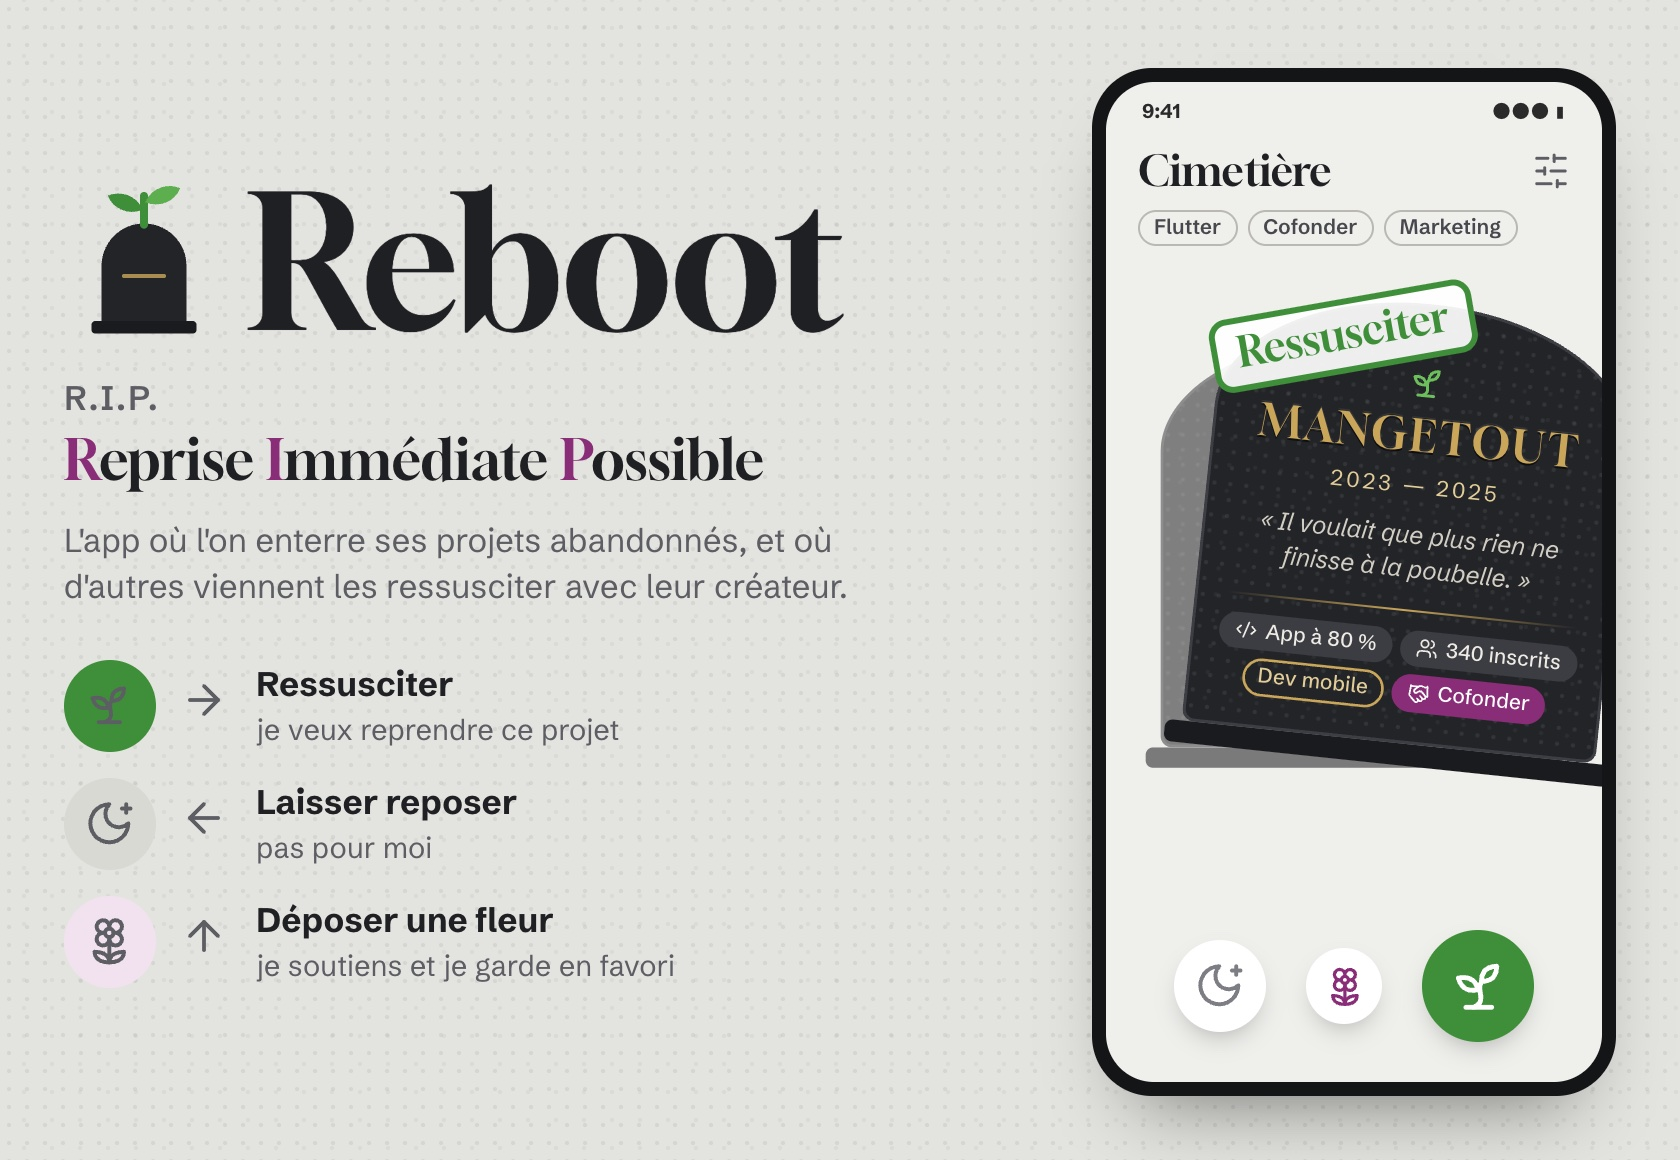
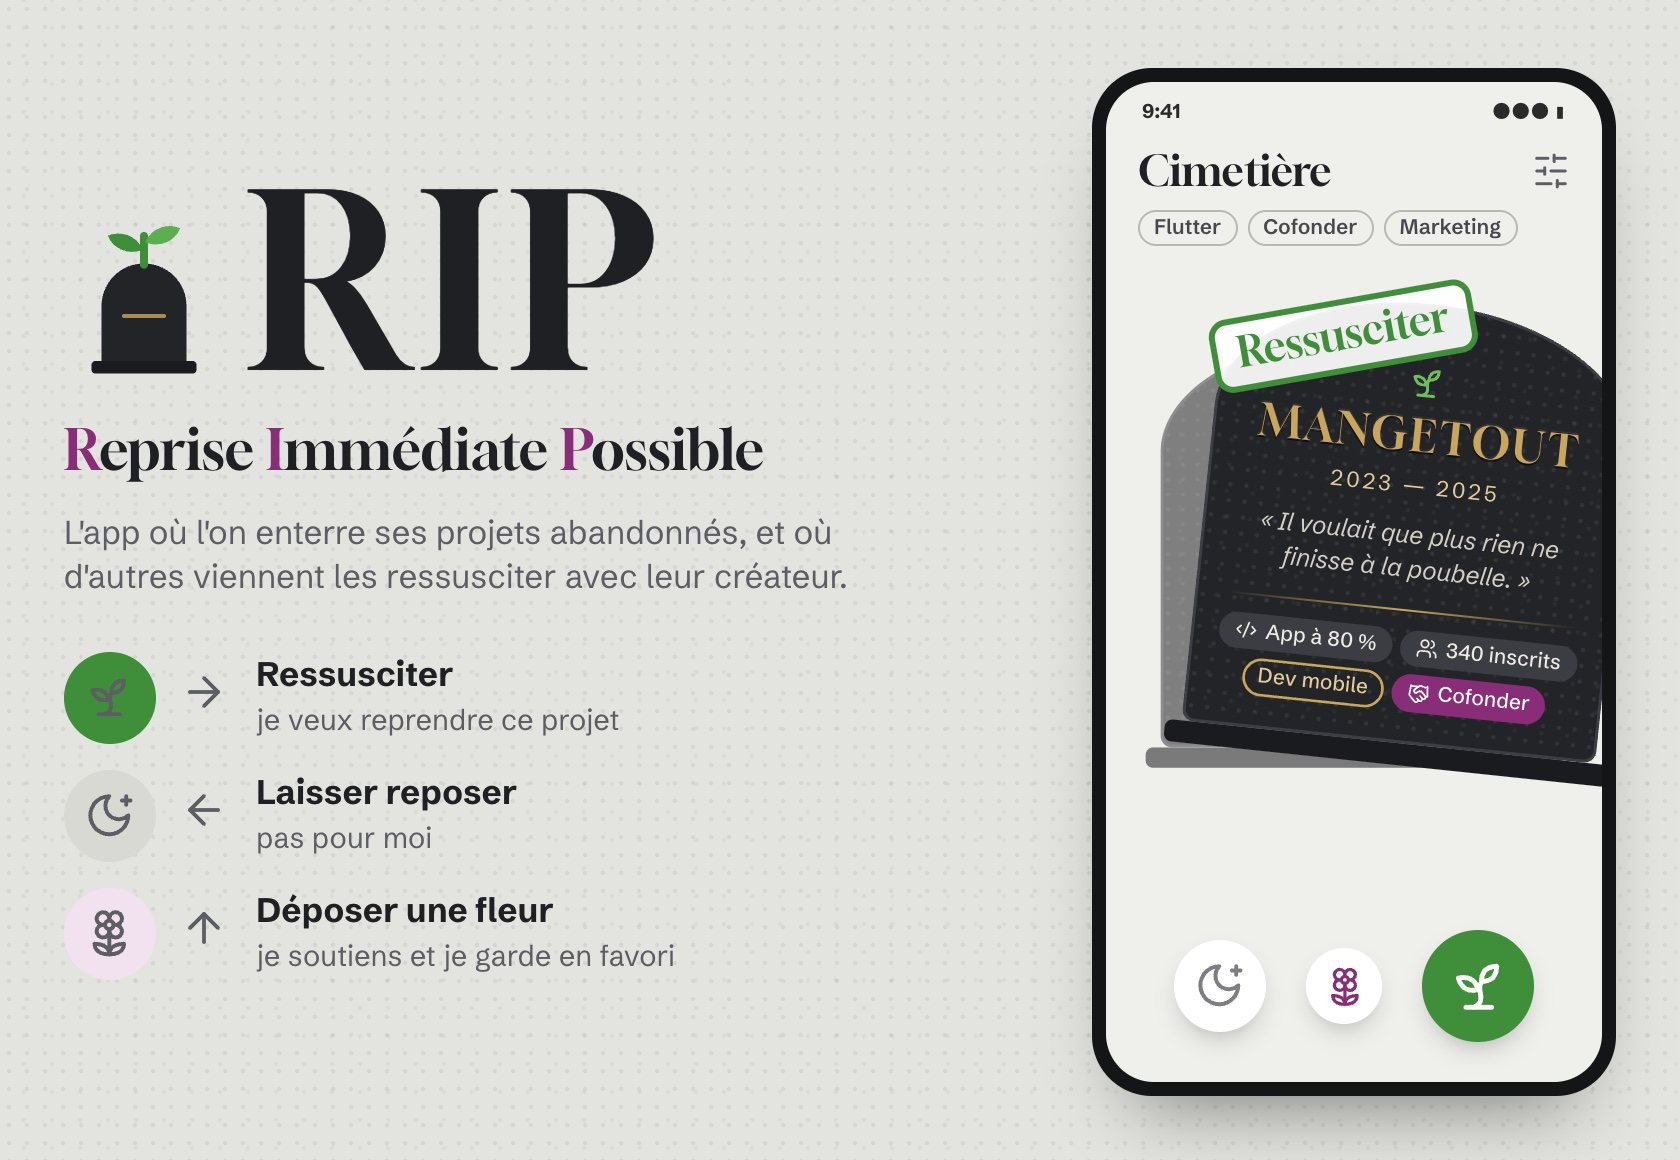
Renommage de l'app en RIP (Reprise Immédiate Possible)
Planches (couverture, marché, argent, risques, route), README, journal et
règles du projet mis à jour ; choix du nom noté dans le journal.

diff --git a/JOURNAL.md b/JOURNAL.md
@@ -1,4 +1,4 @@
-# Journal de bord — Reboot
+# Journal de bord — RIP (ex-Reboot)
 
 Ce journal sert de matière première à la vidéo « making-of » de l'app : il garde chaque étape, son heure,
 sa durée, les choix faits (et par qui), et les outils utilisés. Il est tenu à jour par Claude à chaque étape
@@ -12,6 +12,7 @@ conversations Claude Code.
 | Phase | Date | Début → fin | Durée | Résultat |
 | --- | --- | --- | --- | --- |
 | 0. Idée et plan illustré | 2026-11-03 | 10:28 → 10:47 | ~19 min | Concept, étude de marché, plan en 11 planches, journal + dépôt GitHub |
+| 0b. Renommage en RIP | 2026-11-03 | 10:56 → 10:58 | ~2 min | Nom officiel « RIP », planches et document mis à jour |
 
 ---
 
@@ -57,7 +58,8 @@ Planches (dans `plan/out/`, générées par `plan/build.mjs`) : `reboot-cover`, 
 | Choix | Qui | Pourquoi |
 | --- | --- | --- |
 | Idée : un cimetière de projets abandonnés, swipe façon Tinder, reprise avec le créateur | Utilisateur | Idée de départ |
-| Nom de travail « Reboot » | Utilisateur (nom du dossier), à confirmer | Pistes de secours : Lazare, Second Souffle |
+| ~~Nom de travail « Reboot »~~ remplacé | Claude (proposition), puis changé | Nom du dossier ; pistes de secours : Lazare, Second Souffle |
+| **Nom de l'app : « RIP »**, signature « Reprise Immédiate Possible » (le « R.I.P. » ponctué n'est plus utilisé) | **Utilisateur** (10:56 : « j'aime bien le nom RIP, Reprise Immédiate Possible, renomme l'app ainsi ou du moins RIP si c'est trop long ») | Court, mémorable, le sens est dans le nom ; le repo GitHub et le dossier gardent « Reboot » pour l'instant |
 | Pas de code à ce stade, juste un plan | Utilisateur | « ne code rien » |
 | Vocabulaire funéraire bienveillant : enterrer, tombe, épitaphe, autopsie, héritage, testament, veillée, renaissance | Claude | Mémorable, drôle sans être glauque |
 | Signature « R.I.P. — Reprise Immédiate Possible » | Claude | Détourne le cliché du cimetière en promesse |
@@ -93,6 +95,8 @@ MVP à une équipe, à la main.
 
 ### Moments à garder pour la vidéo
 
+- 10:56 : l'utilisateur change le nom en cours de route, de Reboot à RIP. Sur la couverture, le logo passe de « Reboot » à un grand « RIP » ; seules 5 planches sur 11 portaient le nom, les 6 autres sont restées telles quelles.
+
 - Le premier rendu des planches avait des icônes géantes sur 3 planches (un sélecteur CSS `.mc svg` qui
   touchait aussi les icônes) : corrigé en `.mc > svg`.
 - L'écran « Il revit ! » sortait clair au lieu de granit noir (un raccourci CSS `background` effaçait la
@@ -102,7 +106,7 @@ MVP à une équipe, à la main.
 
 ### Décisions laissées à l'utilisateur
 
-- Garder le nom Reboot ? Vérifier domaine et marque.
+- Nom RIP décidé ; reste à vérifier domaine, marque et homonymes, et à décider si on renomme le dépôt GitHub et le dossier.
 - Langue : FR + EN dès le MVP (recommandé) ?
 - PWA d'abord (recommandé) ou Flutter natif ?
 - Fournir 2 ou 3 projets abandonnés personnels comme premières tombes.

diff --git a/CLAUDE.md b/CLAUDE.md
@@ -1,8 +1,8 @@
-# Reboot — règles du projet
+# RIP — règles du projet (ex-Reboot)
 
 App où l'on « enterre » ses projets abandonnés pour que d'autres les ressuscitent : swipe façon Tinder sur
 des pierres tombales, match à double sens avec le créateur, veillée de 14 jours, pacte de reprise.
-Signature : « R.I.P. — Reprise Immédiate Possible ».
+Nom officiel : **RIP** = « Reprise Immédiate Possible » (choisi par l'utilisateur le 2026-11-03 ; le dossier et le dépôt GitHub s'appellent encore « Reboot »).
 
 - Dépôt : https://github.com/Ichigo35/Reboot (**public** : jamais de secret, de jeton ni de transcript brut)
 - Plan illustré (Claude Docs) : https://claude.ai/artifact/VxLnkZkt7tsi8bz63LzUcM
@@ -38,8 +38,9 @@ L'utilisateur fera une vidéo de toutes les étapes de création de l'app. Donc,
 
 ## Avancement
 
+- **Nom** : RIP depuis le 2026-11-03 (avant : Reboot).
 - **Phase 0 — Idée et plan illustré** : terminée le 2026-11-03 (~19 min). Concept, étude de marché (6 concurrents,
   aucun ne combine cimetière + swipe + match), plan en 11 planches, journal de bord, dépôt GitHub.
-- **Décisions en attente** (utilisateur) : nom Reboot, langue FR + EN, PWA d'abord ou Flutter, 2-3 projets
+- **Décisions en attente** (utilisateur) : domaine/marque RIP, renommer ou non le dépôt et le dossier, langue FR + EN, PWA d'abord ou Flutter, 2-3 projets
   personnels comme premières tombes, feu vert pour la phase suivante (page d'accueil + formulaire « Enterre ton
   projet », validation sans coder).

diff --git a/README.md b/README.md
@@ -1,12 +1,12 @@
-# Reboot
+# RIP
 
-**R.I.P. — Reprise Immédiate Possible.**
+**Reprise Immédiate Possible.**
 
 L'app où l'on enterre ses projets abandonnés, et où d'autres viennent les ressusciter avec leur créateur :
 on swipe des pierres tombales comme sur Tinder (ressusciter, laisser reposer, déposer une fleur), et un match
 à double sens ouvre une veillée de 14 jours qui mène au pacte de reprise.
 
-![Reboot](plan/out/reboot-cover.jpg)
+![RIP](plan/out/reboot-cover.jpg)
 
 - `plan/` : le plan illustré (planches générées par `plan/build.mjs`)
 - `JOURNAL.md` : le journal de bord de la création, étape par étape
